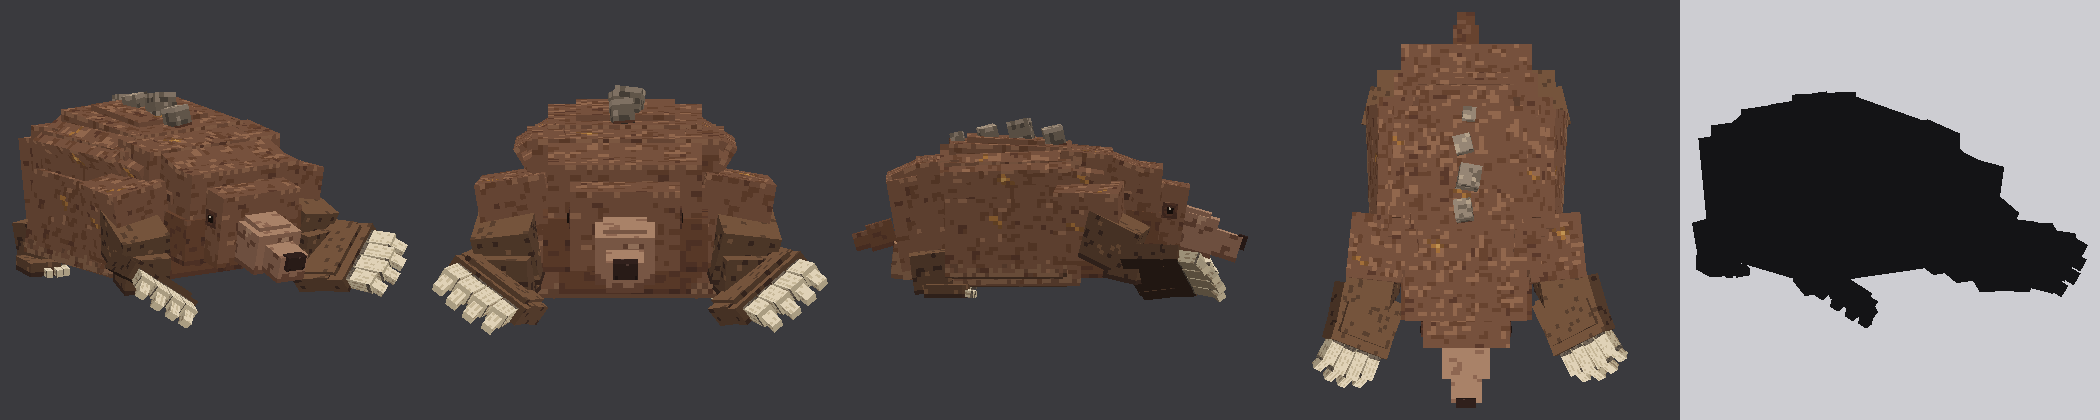
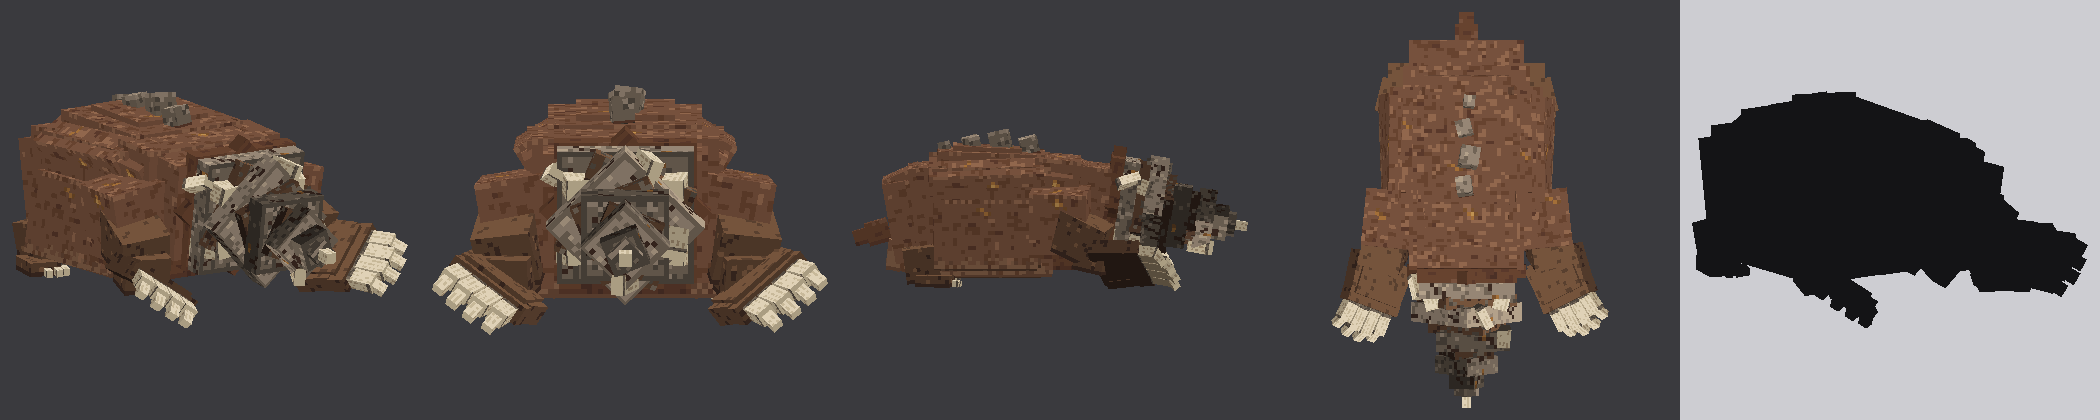
Field Mole: replace the head with a living drill

diff --git a/FluxDungeons/assets/monstres/taupe_champs.py b/FluxDungeons/assets/monstres/taupe_champs.py
@@ -1,23 +1,25 @@
 #!/usr/bin/env python3
-"""Taupe des Champs: farm boss, STATIC Blockbench model (.bbmodel) (2026-11-11).
+"""Taupe des Champs (Roi Taupérion): farm boss, STATIC Blockbench model (.bbmodel) (2026-11-11).
 
-A real mole first, a boss second: a plump spindle-shaped body low on the ground (the belly is the widest part), a head
-that flows straight out of the shoulders with no neck, a long snout tilted down with a small dark nose, tiny eyes and
-ears lost in the fur, and two huge shovel forepaws turned outwards with four thick ivory claws each. Hind legs are
-small and half hidden under the belly, the tail is a short stub. Built like the Sea Otter and the Abyss Colossus: a
-few large boxes per mass, side, top and rear boxes smaller and tilted a few degrees to round the silhouette, every
-small detail (fur, mineral marks, claw stripes) painted at 1 texel per unit.
+A real mole body, a boss head: a plump spindle-shaped body low on the ground (the belly is the widest part), two huge
+shovel forepaws turned outwards with four thick ivory claws each, small hind legs half hidden under the belly, a short
+stub tail. In place of a head (2026-11-11, second version) a living drill grows out of a fur collar: a faceted cone of
+stone plates, each turned 22.5 degrees further (reads as a spiral), bands of living flesh between them, one cutting
+spiral of ivory blades, a hardened point, four rock fangs on the collar leaning in around its base. No eyes, snout or
+ears. Built like the Sea Otter and the Abyss Colossus: a few large boxes per mass, side, top and rear boxes smaller and
+tilted a few degrees to round the silhouette, every small detail painted at 1 texel per unit.
 
-Fantasy stays discreet: ochre mineral marks painted on the shoulders and flanks, four small rock shards along the
-spine (tilted backwards, less than 0.3 block high), darker fur around the eyes, a stony shade at the base of the claws.
-No food, no tools, no armour, no glow.
+Fantasy stays discreet on the body: ochre mineral marks painted on the shoulders and flanks, four small rock shards
+along the spine (tilted backwards, less than 0.3 block high), a stony shade at the base of the claws. No glow.
 
-Pose baked in the boxes, bones placed at the joints for a later animation; no animation.
+Pose baked in the boxes, bones placed at the joints for a later animation (the `Drill` bone can spin the drill alone);
+no animation.
 
 Usage: taupe_champs.py [output folder] [--apercu <sheet.png>]
 Front towards north (-z), the monster's right towards +x, ground at y = 0, 16 units = 1 block.
 """
 import json
+import math
 import os
 import sys
 import uuid
@@ -39,13 +41,10 @@ def pal(*c):
 # --------------------------------------------------------------------------- brief palette (dark -> light)
 FUR = pal("#4B3026", "#5A392B", "#67432F", "#76513D", "#91674D", "#A77B5D")   # base = index 3
 BELLY = pal("#674735", "#856149", "#A1785A")
-SNOUT = pal("#694635", "#8D6651", "#A98268")
-NOSE = pal("#211714", "#30201C", "#594039")
 PAW = pal("#3C2A22", "#59402F", "#75543C")
 CLAW = pal("#A18D70", "#C8B99A", "#E0D2B7")
 STONE = pal("#51483F", "#716456", "#968675", "#B3A18A")
 OCHRE = pal("#78502C", "#A36F38", "#C09252")
-EYE, EYE_GLINT = hx("#1C130F"), hx("#E0D2B7")
 
 SIDE = {"up": 0, "north": 0, "east": 0, "west": 0, "south": -1, "down": -2}   # light from above, a bit from the front
 
@@ -126,57 +125,9 @@ def belly(w, h, r, face):
     return px
 
 
-def snout(base=1):
-    def f(w, h, r, face):
-        """Snout: warmer and lighter than the skull, top a tone lighter, underside shaded."""
-        b = base + {"up": 1, "down": -1}.get(face, 0)
-        px = [[tone(SNOUT, b)] * w for _ in range(h)]
-        speckle(px, r, SNOUT, b, 0.18, 0.0, 0.04)
-        if face in ("east", "west", "north", "south") and h >= 3:
-            px[h - 1] = [tone(SNOUT, b - 1)] * w
-        return px
-    return f
 
 
-def nose(w, h, r, face):
-    """Nose: very dark brown, two nostrils on the front, a one-pixel highlight on the top edge."""
-    px = [[NOSE[1]] * w for _ in range(h)]
-    if face == "north":
-        if w >= 4 and h >= 2:
-            px[h - 1][1] = px[h - 1][w - 2] = NOSE[0]
-            if h >= 3:
-                px[h - 2][1] = px[h - 2][w - 2] = NOSE[0]
-        px[0][w // 2] = NOSE[2]
-    elif face == "up":
-        px[h - 1][w // 2] = NOSE[2]
-    elif face == "down":
-        px = [[NOSE[0]] * w for _ in range(h)]
-    return px
 
-
-def eye(w, h, r, face):
-    """Tiny eye (density 2): almost black brown, one cream glint pixel."""
-    px = [[EYE] * w for _ in range(h)]
-    if face in ("east", "west") and w >= 2 and h >= 2:
-        px[0][1 if face == "east" else w - 2] = EYE_GLINT
-    return px
-
-
-def eye_ring(w, h, r, face):
-    """Darker fur around the eye (not a full mask)."""
-    px = [[FUR[0] if r.random() < 0.7 else FUR[1]] * 1 for _ in range(h)]
-    return [[FUR[0] if r.random() < 0.65 else FUR[1] for _ in range(w)] for _ in range(h)]
-
-
-def ear(w, h, r, face):
-    """Ear opening: dark brown inside, lighter brown rim, lost in the fur."""
-    px = [[FUR[3]] * w for _ in range(h)]
-    if face in ("east", "west") and w >= 3 and h >= 3:
-        for y in range(1, h - 1):
-            for x in range(1, w - 1):
-                px[y][x] = FUR[0]
-        px[0] = [FUR[4]] * w
-    return px
 
 
 def paw(base=1):
@@ -258,11 +209,81 @@ def stone(w, h, r, face):
     return px
 
 
+def drill(base=1, seams=True):
+    def f(w, h, r, face):
+        """Drill ring: rough stone of compacted earth, contrasted greys, dark organic seams (living matter between the
+        stone plates), a rare ochre vein; the front face of each ring is darker at its rim."""
+        b = base + {"up": 1, "down": -1, "south": -1}.get(face, 0)
+        px = [[tone(STONE, b)] * w for _ in range(h)]
+        for _ in range(max(1, w * h // 3)):
+            x, y = r.randrange(w), r.randrange(h)
+            px[y][x] = tone(STONE, b + r.choice((-1, -1, 1)))
+        if seams:
+            for _ in range(max(1, (w + h) // 6)):                 # short cracks of dark flesh
+                x, y = r.randrange(w), r.randrange(h)
+                for _ in range(r.randrange(2, 5)):
+                    if 0 <= x < w and 0 <= y < h:
+                        px[y][x] = PAW[0]
+                    x, y = x + r.choice((-1, 0, 1)), y + 1
+        if r.random() < 0.5:
+            x, y = r.randrange(w), r.randrange(h)
+            px[y][x] = OCHRE[1]
+            if x + 1 < w:
+                px[y][x + 1] = OCHRE[0]
+        if face == "north" and w >= 4 and h >= 4:
+            for i in range(w):
+                px[0][i] = px[h - 1][i] = tone(STONE, b - 1)
+            for j in range(h):
+                px[j][0] = px[j][w - 1] = tone(STONE, b - 1)
+        return px
+    return f
+
+
+def drill_flesh(w, h, r, face):
+    """Living band between two stone rings: dark leathery brown of the paws, stone scales scattered over it."""
+    b = {"up": 2, "down": 0}.get(face, 1)
+    px = [[PAW[b]] * w for _ in range(h)]
+    for _ in range(max(1, w * h // 4)):
+        x, y = r.randrange(w), r.randrange(h)
+        px[y][x] = STONE[0] if r.random() < 0.6 else STONE[1]
+    for _ in range(max(1, w * h // 10)):
+        px[r.randrange(h)][r.randrange(w)] = PAW[0]
+    return px
+
+
+def drill_root(w, h, r, face):
+    """Where the drill grows out of the body: fur on the outer rows turning into stone towards the middle."""
+    px = [[FUR[2]] * w for _ in range(h)]
+    speckle(px, r, FUR, 2)
+    if face in ("north", "south"):
+        cx, cy = (w - 1) / 2, (h - 1) / 2
+        for y in range(h):
+            for x in range(w):
+                d = max(abs(x - cx) / max(cx, 1), abs(y - cy) / max(cy, 1))
+                if d < 0.62 or (d < 0.8 and r.random() < 0.5):
+                    px[y][x] = tone(STONE, 0 if r.random() < 0.6 else 1)
+                elif d < 0.86 and r.random() < 0.5:
+                    px[y][x] = PAW[0]
+    return px
+
+
+def drill_tip(w, h, r, face):
+    """Hardened point: darkest stone, light edges where it is worn sharp."""
+    px = [[STONE[0]] * w for _ in range(h)]
+    for _ in range(max(1, w * h // 4)):
+        px[r.randrange(h)][r.randrange(w)] = STONE[1]
+    if face != "south" and w >= 2:
+        for j in range(h):
+            px[j][0] = STONE[2]
+    return px
+
+
 MATS = {
     "body": fur(3, belly_edge=2), "flank": fur(3, marks=1, belly_edge=3), "shoulder": fur(3, marks=1),
     "back": fur(3, marks=1), "rump": fur(3, belly_edge=2), "head": fur(3), "head_low": fur(2),
-    "chest": fur(2, top_light=False), "belly": belly, "snout": snout(1), "snout_tip": snout(1),
-    "nose": (nose, 2), "eye": (eye, 2), "eye_ring": (eye_ring, 2), "ear": (ear, 2),
+    "chest": fur(2, top_light=False), "belly": belly,
+    "drill": drill(1), "drill_light": drill(2), "drill_flesh": drill_flesh, "drill_root": drill_root,
+    "drill_tip": drill_tip,
     "arm": paw(1), "forearm": paw(1), "shovel": shovel, "claw": (claw(False), 2), "claw_tip": (claw(True), 2),
     "foot": paw(1), "tail": fur(2), "stone": stone,
 }
@@ -275,6 +296,18 @@ TAIL_ROOT = (0, 14, 33)
 SHOULDERS = {1: (19, 17, -12), -1: (-19, 17, -12)}
 WRISTS = {1: (21.5, 7.5, -22), -1: (-22, 7.5, -21)}
 HIPS = {1: (15, 9, 24), -1: (-15, 9, 24)}
+
+def look(d):
+    """Rotation matrix turning a box drawn along -z so that it points along d."""
+    n = math.sqrt(sum(v * v for v in d))
+    z = [-v / n for v in d]
+    up = [0, 1, 0]
+    x = [up[1] * z[2] - up[2] * z[1], up[2] * z[0] - up[0] * z[2], up[0] * z[1] - up[1] * z[0]]
+    m = math.sqrt(sum(v * v for v in x))
+    x = [v / m for v in x]
+    y = [z[1] * x[2] - z[2] * x[1], z[2] * x[0] - z[0] * x[2], z[0] * x[1] - z[1] * x[0]]
+    return [[x[i], y[i], z[i]] for i in range(3)]
+
 
 GROUPS = {"Root": ((0, 0, 0), None), "Body": (BODY_C, "Root"), "Head": (NECK, "Body"), "Tail": (TAIL_ROOT, "Body")}
 
@@ -313,26 +346,54 @@ def parts():
         top = 35.8 - 0.06 * abs(z - 7)
         add("Body", f"eclat_{i + 1}", (0.6 * (-1) ** i, top + sz[1] / 2 - 1.5, z), sz, (13, ry, rz), "stone")
 
-    # ---------------------------------------------------------------- head: straight out of the shoulders
+    # ---------------------------------------------------------------- head: a living drill instead of a head
+    # No skull, snout, eyes nor ears: the fur of the shoulders closes into a collar, from which a drill of stone grows.
+    # The drill is a faceted cone of square rings, each turned 22.5 degrees more than the previous one (reads as a
+    # spiral), stone rings alternating with bands of living flesh, two spiral cutting blades per ring, a hardened
+    # point. Four rock fangs on the collar lean in around the base like the jaws of a digging tool. The rings are in
+    # the `Drill` bone, pivot on the axis: an animation can spin the drill without moving the collar.
     on_head = attach(NECK, rot(-6, 0, 0))
+    axis = (0, 21, -25)
+    on_drill = attach(axis, rot(-3, 0, 0))                       # drill aims a little more towards the ground
 
-    def hd(name, c, size, r, mat):
-        cc, M = on_head(c, r)
-        add("Head", name, cc, size, M, mat)
+    def hd(name, c, size, r, mat, bone="Head", drilled=False):
+        cc, M = on_drill(c, r) if drilled else (c, r)
+        cc, M = on_head(cc, M)
+        add(bone, name, cc, size, M, mat)
 
-    hd("nuque", (0, 27, -18), (28, 8, 10), (-14, 0, 0), "head")          # skull continues the back line
-    hd("crane", (0, 20, -22.5), (28, 20, 11), (0, 0, 0), "head")
-    hd("joues", (0, 15, -24), (30, 10, 9), (0, 0, 0), "head_low")         # cheeks melt into the shoulders
-    hd("tete_avant", (0, 18.5, -30), (20, 16, 8), (-4, 0, 0), "head")
-    hd("menton", (0, 11.5, -29), (15, 4, 9), (0, 0, 0), "head_low")
-    hd("museau", (0, 15.5, -37), (11, 9, 9), (-9, 0, 0), "snout")
-    hd("museau_dessus", (0, 20, -36), (8, 2.5, 8), (-11, 0, 0), "snout")  # rounded top of the snout
-    hd("museau_bout", (0, 13.6, -43.8), (7, 6, 7), (-12, 0, 0), "snout_tip")
-    hd("nez", (0, 14.6, -47.6), (4.6, 3.2, 2.2), (-12, 0, 0), "nose")
-    for s, side in ((1, "droit"), (-1, "gauche")):
-        hd(f"cerne_{side}", (10.1 * s, 20.6, -30.5), (0.4, 3.5, 3.5), (0, 0, 0), "eye_ring")
-        hd(f"oeil_{side}", (10.3 * s, 20.6, -30.6), (0.5, 1.5, 1.5), (0, 0, 0), "eye")
-        hd(f"oreille_{side}", (14.15 * s, 23, -20), (0.6, 2.5, 3), (0, 0, 0), "ear")
+    GROUPS["Drill"] = (on_head(*on_drill(axis, (0, 0, 0)))[0], "Head")
+    hd("nuque", (0, 27, -18), (28, 8, 10), (-14, 0, 0), "head")          # the back line runs on into the collar
+    hd("col", (0, 20, -20.5), (30, 22, 8), (0, 0, 0), "head")
+    hd("col_bas", (0, 11, -20.5), (25, 6, 8), (0, 0, 0), "head_low")
+    # base of the drill: two squares turned 45 degrees from each other (an octagon), growing out of the collar
+    hd("racine", (0, axis[1], -25.2), (26, 26, 3.6), (0, 0, 0), "drill_root", drilled=True)
+    hd("racine_biais", (0, axis[1], -25.4), (22, 22, 3.4), (0, 0, 45), "drill_root", drilled=True)
+
+    # stone plates (each a little smaller and turned further) with thinner bands of living flesh between them
+    rings = ((25, "drill", 5.2), (20, "drill_flesh", 3.2), (20.5, "drill_light", 5), (15.5, "drill_flesh", 3),
+             (16, "drill", 4.8), (11, "drill_flesh", 2.8), (11.5, "drill_light", 4.6), (7, "drill", 4.2))
+    z = axis[2] - 1.0
+    for k, (side, mat, depth) in enumerate(rings):
+        z -= depth / 2
+        hd(f"anneau_{k + 1}", (0, axis[1], z), (side, side, depth), (0, 0, 22.5 * k), mat, "Drill", True)
+        if mat != "drill_flesh" and side >= 9:                   # one continuous cutting spiral around the plates
+            a = math.radians(40 * k + 30)
+            rad = side * 0.5 + 1.2
+            c = (rad * math.cos(a), axis[1] + rad * math.sin(a), z)
+            blade = (2.4, 5.6 - 0.3 * k, 6.4)
+            hd(f"lame_{k + 1}", c, blade, (0, 28, math.degrees(a) - 90), "claw", "Drill", True)
+        z -= depth / 2 - 0.4                                     # rings overlap a little: no gap in the cone
+    tip_z = z - 1.2
+    hd("pointe", (0, axis[1], tip_z + 0.8), (4.6, 4.6, 4.2), (0, 0, 45), "drill_tip", "Drill", True)
+    hd("pointe_bout", (0, axis[1], tip_z - 2.6), (2.4, 2.4, 3.6), (0, 0, 0), "claw_tip", "Drill", True)
+
+    # rock fangs on the collar, leaning in towards the drill
+    for j, ang in enumerate((35, 145, 215, 325)):
+        a = math.radians(ang)
+        base = (13 * math.cos(a), axis[1] + 13 * math.sin(a), axis[2] - 1.5)
+        d = [-0.32 * math.cos(a), -0.32 * math.sin(a), -1]
+        hd(f"croc_{j + 1}", (base[0] + d[0] * 3.5, base[1] + d[1] * 3.5, base[2] + d[2] * 3.5), (4, 4, 9),
+           look(d), "claw", "Head", True)
 
     # ---------------------------------------------------------------- tail: short thick stub
     on_tail = attach(TAIL_ROOT, rot(16, 0, 0))
